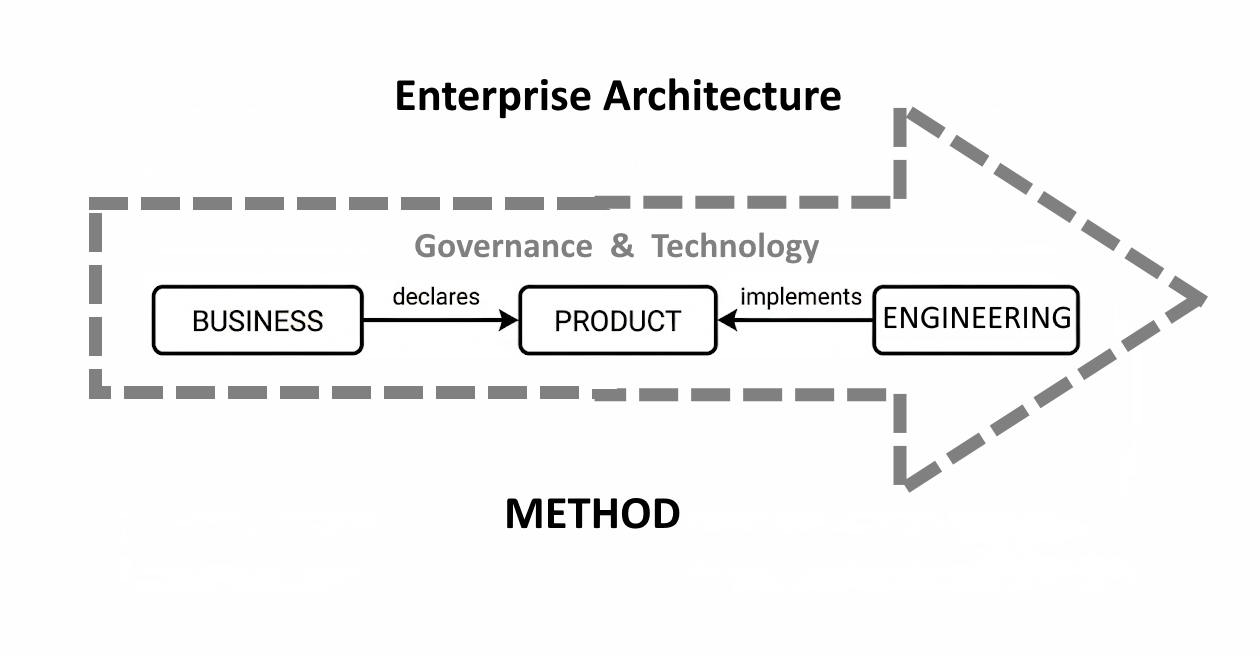
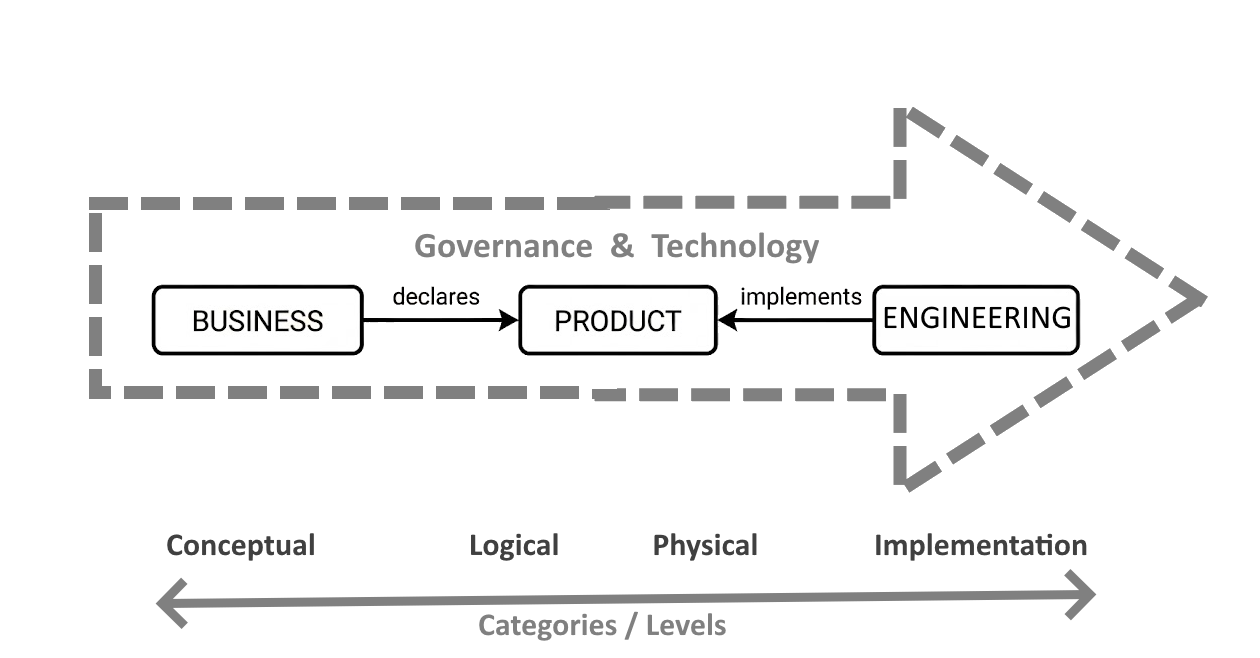
updated

diff --git a/docs/bpt.md b/docs/bpt.md
@@ -1,6 +1,15 @@
-# The Loop
 
-### Business Process Technology (BPT) 
+- [The BPT Loop](#the-bpt-loop)
+    - [Business Product Technology (BPT)](#business-product-technology-bpt)
+  - [Roles, Actors and Jurisdictions](#roles-actors-and-jurisdictions)
+  - [Enterprise Architecture role](#enterprise-architecture-role)
+  - [This works because:](#this-works-because)
+  - [Clarifications](#clarifications)
+    - [Various Clarifications](#various-clarifications)
+
+
+# The BPT Loop
+### Business Product Technology (BPT) 
 
 >**Tip**
 >
@@ -12,11 +21,14 @@
 
 This diagram represents **Enterprise Architecture role as the governing meta-layer** that orchestrates the Business-Product-Technology relationship through continuous cycles (loops).
 
-Irone Code Labs is, delivery focused, operational methodology for CMM-ready organisations. EA is the **governor** — it does not participate in the loop, it governs it.
+Iron Code Labs had eveloped delivery focused, operational methodology for CMM-ready organisations. EA is the **governor** — it does not participate in the loop, it governs it.
 
-Activities are communication protocols informing on the intent. They are simple and clean and make possible keeping the 3 parts decoupled, but delivering as a whole. Again under the central authority of the Enterprise Architecture firmly eastablished in clients organization
+>The entry ticked to the BPT cycle is the [ACMM Level 3](https://ea.ironcodelabs.com/cmm#levels). 
+>That is the precondition to assure smooth cycling and delivery,
 
-| Activity Protocol | The Intent | Key actors |
+Activities are (groups of) messages informing on the intent. They are simple and clean and make possible keeping the 3 BPT parts decoupled, but working as a whole. Again under the central authority of the Enterprise Architecture firmly eastablished in clients organization, as the overarching governing entity.
+
+| Activity Messages Flows | The Intent | Key Actors |
 |----------|-------------|------------|
 | **Require** | Business declares product needs; EA ensures alignment with strategy | Business, EA |
 | **Develop** | Technology builds to product specifications; EA governs coherence | Technology, Product, EA |
@@ -25,11 +37,11 @@ Activities are communication protocols informing on the intent. They are simple 
 
 Evaluate feeds back to Business so that next Require can commence— the loop never stops.
 
-#### Roles, Actors and Scope
+## Roles, Actors and Jurisdictions
 
-Different roles and actors work inside different parts of the loop. That fact defines the scope of each role.
+Different roles and actors work inside different parts of the BPT loop. That fact defines the jurisdiction of each role.
 
-| Roles | Scope | Activities |
+| Roles | Jurisdiction | Activities |
 |-------|-------|------------|
 | Business Leaders, Clients, Product Owners, BAs | **Business** | declares products, owns outcomes |
 | Product Owners, QAs, BAs| **Product** | bridges business needs and technical capabilities (the alignment point) |
@@ -41,7 +53,7 @@ QA == Quality Assurance
 
 > **Note**
 > 
-> **Key strengths:**
+> **Key BPT strengths:**
 >
 > - Product is the natural alignment point between Business and Technology
 > - Architecture operates "above" the process, not within it
@@ -61,14 +73,44 @@ QA == Quality Assurance
 - The loop tests architecture decisions against reality continuously
 - Answer to a difficult question: "Is Business aligned with Technology?", becomes measurable
 
-**In TOGAF terms:** This is Architecture Governance as a productized execution model, not replacing TOGAF ADM but providing the operational CMM based framework ADM governs.
+**In TOGAF terms:** This is Architecture Governance as a productized execution model, not replacing TOGAF ADM but providing the operational CMM based framework EA governs.
 
 > **Tip**
 > 
 > **Product unifies; Loop validates.**
 {: .tip}
 
+
+<div id="clarifications"></div>
+
+## Clarifications
+
+>**Important**
+Are definition and terms in singular or plural very much depends on the size of the organization. Although it is rare there is a single product, or service. 
+{:important}
+
+>**Important**
+Segments/parts of the BPT operate on different levels of abstraction as defined by [ICL Taxonomy](https://ea.ironcodelabs.com/taxonomy.html).
+{: important}
+
 ![](bpt_assets/icl_dbj_method.png)
+
+| BPT Segment | Taxonomy Category |
+|-------------|-------------------|
+| Business    | Conceptual, Logical
+| Product    | Logical, Physical |
+| Engineering    | Physical, Implementation |
+
+### Various Clarifications 
+Order is irrelevant
+
+1. inside the "Business" segment ICL ADM wheels are rotating. EAch is one project delivering conceptual and logical architectues. 
+   1. Depending on the size of the organization or IT Landscape one ore more ADM "Wheels" are creating Conceptual and Logical Level architectures.
+2. inside the "Product" segment BA's and PO's create Workflow explaining the steps and action flows, as declared by the business in the "B" stage in the "ADM Wheel". 
+   1. ADM wheel can also deliver Logical Architecture with the declared Product in the focus.
+3. "Product" in the BPT context is a generic term for actual software products or services. Actual products, integration products, platform products, network services, security services, and so on.
+   1. Inside the "Product" segment, usualy there are no Engineering roles.
+4. "Technology" segment contains one or more projects operating on the Implementation level (category on the [ICL taxonomy](https://ea.ironcodelabs.com/taxonomy.html))
 
 ---
 Until further notice &copy; dbj@dbj.org
